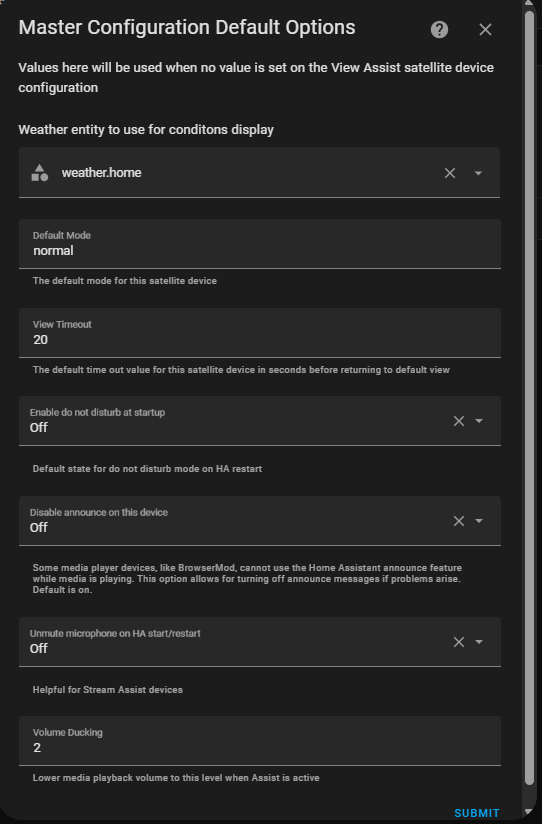
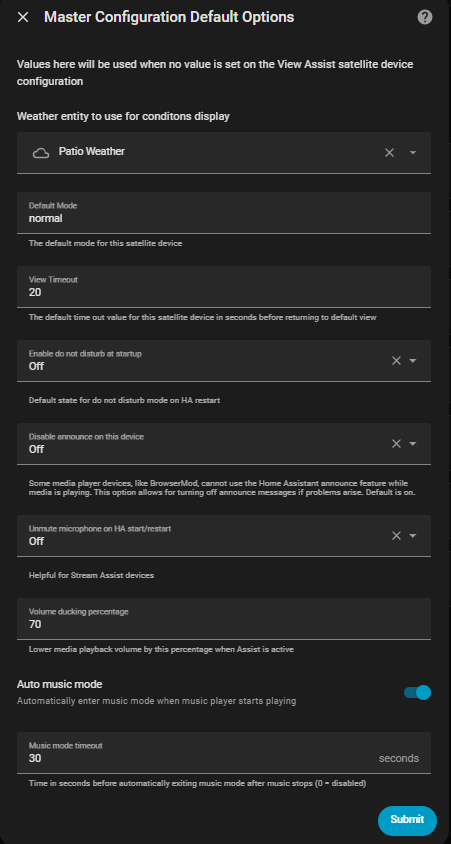
Update docs to include auto music mode

diff --git a/wiki/docs/view-assist-configuration/masterconfig-configuration/default-options.md b/wiki/docs/view-assist-configuration/masterconfig-configuration/default-options.md
@@ -16,3 +16,5 @@ The default options contain a variety of different configuration settings
 - **Disable Announce** - Some media player devices like BrowserMod and Squeezelite cannot use the Home Assistant announce feature while media is playing. This option allows for turning off announce messages if problems arise. Default is on but turn this off if your device supports announce
 - **Unmute Mic** - Unmute microphone on HA start/restart. This is helpful for Stream Assist devices which default to muted on Home Asistant start
 - **Volume Ducking** - Lower media playback volume to this level when Assist is active. You may need to play with this value to tune it correctly for your needs (default 35)
+- **Auto music mode** - Automatically enter music mode when music player starts playing. When turned on this will result in the view switching to the music view
+- **Music mode timeout** - Time in seconds before automatically exiting music mode after music stops. This is dependent on Auto music mode above being enabled. Set a value of 0 to disable timeout so that music mode continues even after media has stopped playing
